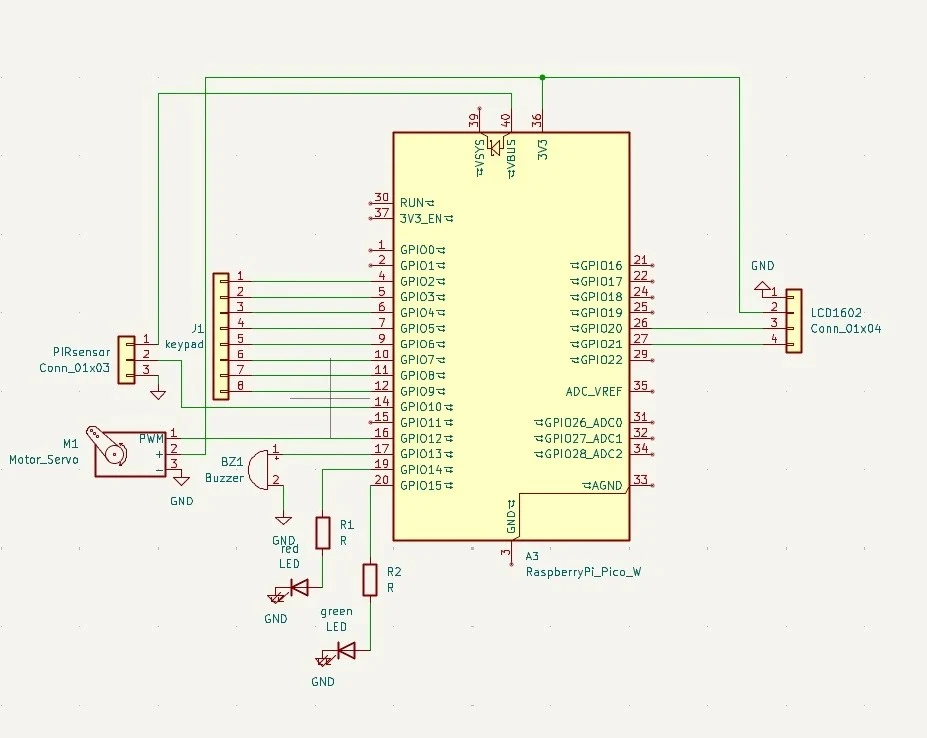
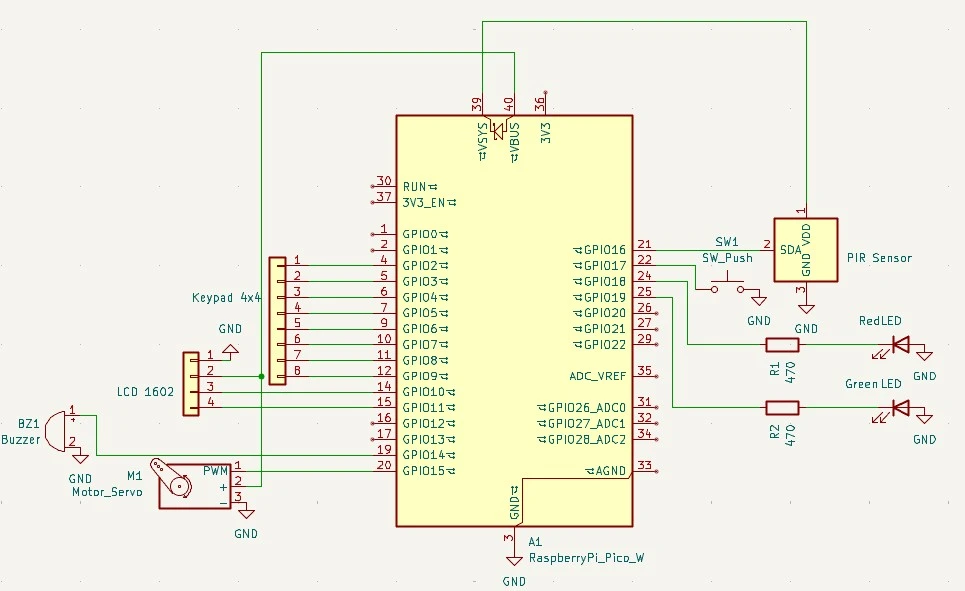
Adaugare proiect Iulia Elena Giuroiu 2025

Changed region(s): [[0.0, 0.0305, 0.9666, 0.9746], [0.6343, 0.9442, 0.6645, 0.9746], [0.5135, 0.9746, 0.5437, 1.0]]

diff --git a/website/versioned_docs/version-acs_cc/project/2025/iulia_elena.giuroiu/index.md b/website/versioned_docs/version-acs_cc/project/2025/iulia_elena.giuroiu/index.md
@@ -32,17 +32,39 @@ The system is organized modularly, with each logic component responsible for a d
 
 ```mermaid
 flowchart TB
-    PICO["Raspberry Pi Pico"]
+    PICO["Raspberry Pi Pico W"]
 
-    PICO --> OLED["OLED / LCD Screen"]
-    PICO --> KEYPAD["Matrix Keypad 4x4"]
-    PICO --> BUZZER["Active Buzzer"]
-    PICO --> LED["LEDs (Red and Green)"]
-    PICO --> MOTOR["Servo Motor SG90"]
-    PICO --> PIR["PIR Motion Sensor"]
+    OLED["LCD 1602 (I2C)"]
+    KEYPAD["Keypad 4x4"]
+    BUZZER["Buzzer (BZ1)"]
+    LED_RED["Red LED"]
+    LED_GREEN["Green LED"]
+    MOTOR["Servo Motor SG90"]
+    PIR["PIR Motion Sensor"]
+    BUTTON["Push Button (SW1)"]
 
-    KEYPAD --> PICO
-    PIR --> PICO
+    PICO --> OLED
+    PICO --> KEYPAD
+    PICO --> BUZZER
+    PICO --> LED_RED
+    PICO --> LED_GREEN
+    PICO --> MOTOR
+    PICO --> PIR
+    PICO --> BUTTON
+
+    subgraph OUTPUTS
+        LED_RED
+        LED_GREEN
+        MOTOR
+        BUZZER
+    end
+
+    subgraph INPUTS
+        PIR
+        KEYPAD
+        BUTTON
+    end
+
 ```
 
 ## Log
@@ -51,7 +73,27 @@ flowchart TB
 
 ### Week 5 - 11 May
 
+During this week, I focused on defining the concept and direction of the project. I analyzed the required functionality and started outlining the system specifications. I identified the components needed (PIR sensor, keypad, LEDs, servo motor, buzzer, LCD, push button) and mapped them to the available GPIOs on the Raspberry Pi Pico 2W.
+
+I also considered how the different modules will interact—such as how authentication should trigger access control, and how motion detection without prior authentication should trigger an alert. I began drafting the hardware schematic in KiCad and planned the software architecture using Embassy’s async multitasking. Additionally, I evaluated what parts I already had available and what still needed to be sourced.
+
 ### Week 12 - 18 May
+
+This week I connected each hardware component to the Raspberry Pi Pico 2W individually and tested its functionality. Using small, dedicated Rust programs, I verified that every module operated correctly in isolation. This included:
+
+reading input from the matrix keypad (keypad.rs),
+
+detecting motion with the PIR sensor (senzorpir.rs),
+
+controlling the servo motor via PWM (servomotor.rs),
+
+toggling LEDs and activating the buzzer (buzzer.rs),
+
+displaying messages on the LCD1602 via I2C (ecran.rs),
+
+and reading input from the push button (button.rs).
+
+These tests ensured that the electrical connections were correct and that each peripheral worked reliably before integrating them into the main system.
 
 ### Week 19 - 25 May
 
@@ -107,13 +149,13 @@ The firmware is written in Rust using an asynchronous multitasking model powered
 * **Authentication Task**: Reads input from the keypad, validates username and PIN
 * **Access Task**: Controls the door via the servo motor and manages door state logic
 * **Alert Task**: Listens for motion events from the PIR sensor and activates the buzzer and red LED if motion is detected without authentication
-* **Display Task**: Shows real-time messages and system prompts via the LCD1602 using I²C
+* **Display Task**: Shows real-time messages and system prompts via the LCD1602 using I2C
 
 ### Peripheral Handling
 
 * **GPIO**: Used for keypad input, LED control, and buzzer signal
 * **PWM**: Drives the buzzer and smoothly dims LEDs
-* **I²C**: Communication with the LCD display
+* **I2C**: Communication with the LCD display
 * **Task synchronization**: Performed using Embassy's async/await runtime, avoiding blocking calls and ensuring responsive behavior
 
 ## Links
